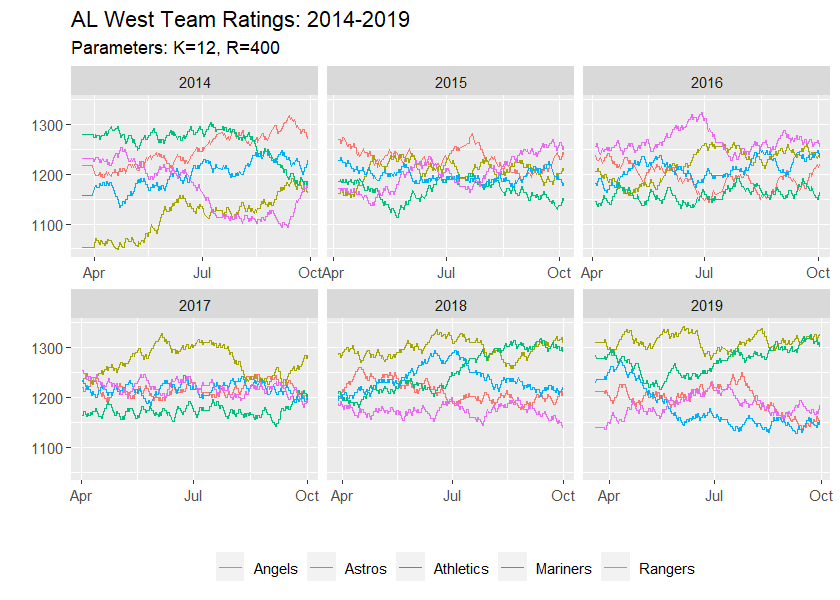
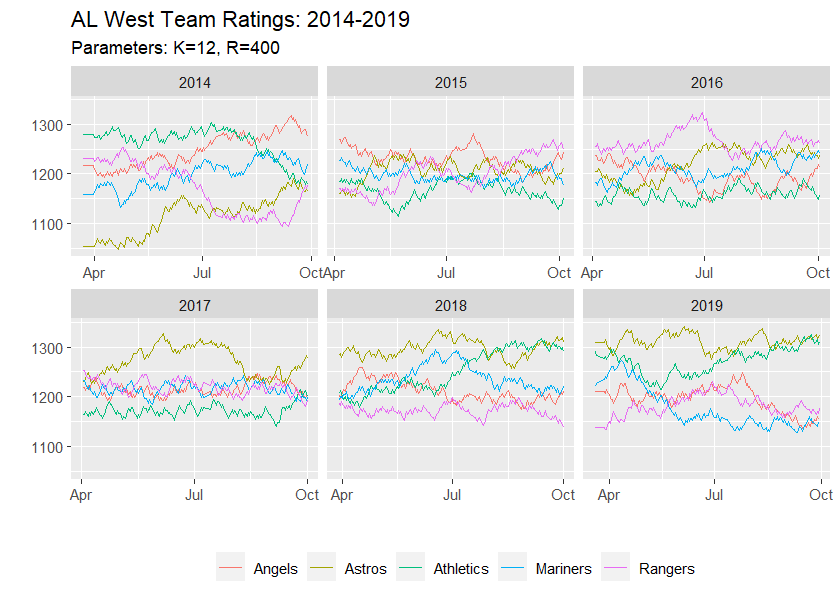
Fixed issue with duplicate rows

diff --git a/Elo.py b/Elo.py
@@ -6,13 +6,12 @@ import pandas as pd
 import sqlite3
 import os.path
 
-def calculate_elos(games, K, R, M):
+def calculate_elos(games, K, R):
     '''
     games:  Pandas dataframe game-level data created by Parser module. Data should be filtered to
                 desired timeframe for analysis.
     K:      Parameter for maximum rating change from win/loss
     R:      Parameter specifying expected margin of victory in an uneven match
-    M:      League-wide mean rating (starting point for new teams)
     Returns: Pandas dataframe with team and date level ratings output
     '''
 
@@ -21,7 +20,7 @@ def calculate_elos(games, K, R, M):
     teams.sort()
 
     date = 'start'
-    elos_now = {t: M for t in teams}
+    elos_now = {t: 1200 for t in teams}
     w_now = {t: 0 for t in teams}
     l_now = {t: 0 for t in teams}
 
@@ -31,10 +30,15 @@ def calculate_elos(games, K, R, M):
 
     # Iterate through games and calculate rating updates for each encounter
     for i, game in games.iterrows():
+        date_old = date
         v = game.teamid_vis
         h = game.teamid_home
         winner = game.winner
         date = game.date
+        
+        # Check if done with day and output
+        if date_old != date:
+            elos = elos.append(pd.DataFrame(elos_now, index=[date]))
 
         # Elo rating
         R_v = elos_now[v]
@@ -55,16 +59,8 @@ def calculate_elos(games, K, R, M):
         elos_now[v] = R_v_new
         elos_now[h] = R_h_new
 
-        elos = elos.append(pd.DataFrame(elos_now, index=[date]))
-
-        # Updated W-L record
-        w_now[v] = w_now[v] + (1 if winner == 'V' else 0)
-        w_now[h] = w_now[h] + (1 if winner == 'H' else 0)
-        l_now[v] = l_now[v] + (0 if winner == 'V' else 1)
-        l_now[h] = l_now[h] + (0 if winner == 'H' else 1)
-
-        ws = ws.append(pd.DataFrame(w_now, index=[date]))
-        ls = ls.append(pd.DataFrame(l_now, index=[date]))
+    # Output final row
+    elos.append(pd.DataFrame(elos_now, index=[date]))
 
     elos_long = pd.DataFrame(elos.unstack(), columns=['rating'])
     elos_long.index.names = ['teamid', 'date']
@@ -80,8 +76,7 @@ if __name__ == '__main__':
     # Process games data with default parameters
     K = 12
     R = 400
-    M = 1200
-    output = calculate_elos(games, K , R, M)
+    output = calculate_elos(games, K , R)
 
     # Save output to database
     output.to_sql('elos', conn, if_exists='replace')
